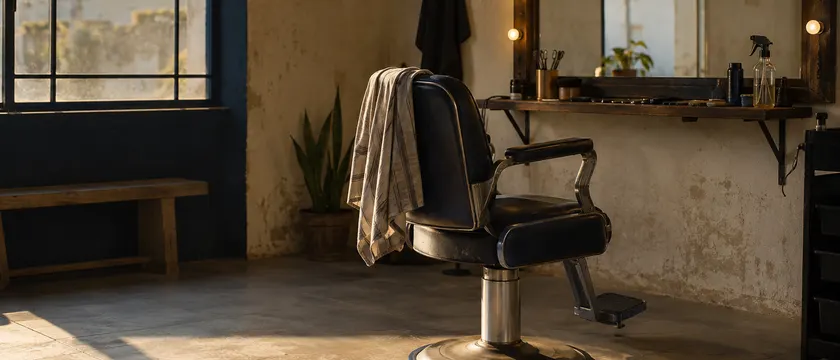
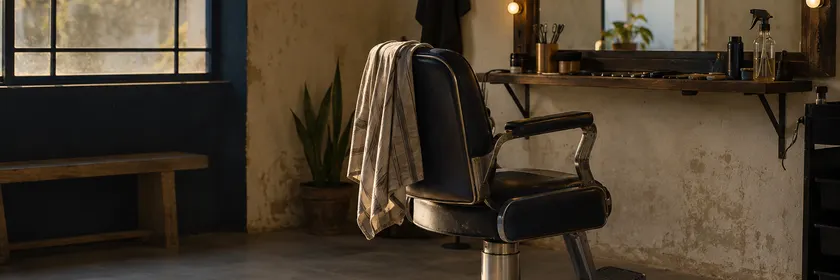
a peca ATRAVESSA a borda em vez de ser cortada por ela
Achado do fundador numa janela de 1850px, e ali a diferenca e' gritante: a peca
era cortada rente a' virada de cor, e corte reto num cartao branco le como
AMPUTACAO, nao como continuacao. O celular da home, que atravessa a borda e
termina dentro da secao clara, le como profundidade — e era o unico gesto ja'
provado nessa largura. Este commit troca um pelo outro.

A CORRECAO E' A COMBINACAO, e cada metade sozinha falha pela que falta:

- ABSOLUTA, a peca nao entra na conta da altura do heroi, entao quem decide
  onde o navy termina e' a coluna de texto. Sem isso o heroi crescia junto com
  ela e abria meia tela de navy vazio ao lado do texto (medido em 1850).
- SEM RECORTE, o que passa disso invade a secao clara de baixo. Sem isso o
  corte reto volta, que e' o defeito original.

As duas versoes anteriores tinham UMA das duas. Ela passa por cima da secao
seguinte porque `.hero-escuro` tem `z-index: 1` e a secao de baixo nao tem —
nao e' acaso de ordem no DOM.

A peca ganhou FIM proprio (rodape), porque agora ela termina onde nao ha corte
para escondê-la. E emagreceu de 974px para 783: tres servicos em vez de quatro,
foto em 840x280 em vez de 840x360, sem a linha "domingo e segunda a gente
descansa", paddings menores. Nao e' arrumacao — cada linha ali custa altura, e a
altura decide se ela colide com o conteudo da secao seguinte.

A SECAO DAS MENSAGENS ganhou respiro grande no PC, para nascer abaixo do pe da
[…]

diff --git a/components/MiniPagina.tsx b/components/MiniPagina.tsx
@@ -31,11 +31,14 @@
    cliente e captura de conversa real não entram no site. Mesmo critério da
    "Camila Nunes" e do "Bruno" da home. */
 
+/* TRÊS serviços, e não quatro: a peça atravessa a borda do herói e precisa
+   terminar ANTES do conteúdo da seção seguinte. Cada linha aqui custa altura
+   real, e a lista existe para mostrar que a página tem preço — não para ser um
+   cardápio. */
 const SERVICOS = [
   { nome: 'Corte', preco: 'R$ 60' },
   { nome: 'Coloração', preco: 'R$ 180' },
   { nome: 'Escova', preco: 'R$ 45' },
-  { nome: 'Hidratação', preco: 'R$ 70' },
 ];
 
 function Zap({ children }: { children: React.ReactNode }) {
@@ -51,7 +54,7 @@ function Zap({ children }: { children: React.ReactNode }) {
 
 function Secao({ rotulo, children }: { rotulo: string; children: React.ReactNode }) {
   return (
-    <div className="px-6 py-7 border-t border-[color:var(--color-line)]">
+    <div className="px-6 py-5 border-t border-[color:var(--color-line)]">
       <div className="font-mono text-[9.5px] uppercase tracking-[.13em] text-muted">{rotulo}</div>
       {children}
     </div>
@@ -64,9 +67,9 @@ export default function MiniPagina() {
        usa leitor de tela, ouvir "Salão Aurora · Corte R$ 60" no meio do herói de
        outra empresa é ruído que promete um negócio que não existe. O que ela
        ilustra está dito em texto no herói e na seção das mensagens. */
-    <div className="peca w-full max-w-[420px] overflow-hidden" aria-hidden="true">
+    <div className="peca w-full max-w-[420px] overflow-hidden border border-[color:var(--color-line)]" aria-hidden="true">
 
-      <div className="flex items-center justify-between gap-3 px-6 py-4">
+      <div className="flex items-center justify-between gap-3 px-6 py-3.5">
         <div className="font-display text-[17px] text-ink leading-none">Salão Aurora</div>
         <div className="font-mono text-[9.5px] uppercase tracking-[.12em] text-muted">sudoeste</div>
       </div>
@@ -84,13 +87,13 @@ export default function MiniPagina() {
         src="/salao-cadeira-840.webp"
         alt=""
         width={840}
-        height={360}
+        height={280}
         className="block w-full h-auto"
       />
 
       {/* O TOPO da página do cliente, e é ele que domina. */}
-      <div className="mini-topo px-6 pt-7 pb-9">
-        <div className="font-display text-[32px] leading-[1.08] text-ink max-w-[11ch]">
+      <div className="mini-topo px-6 pt-5 pb-6">
+        <div className="font-display text-[28px] leading-[1.1] text-ink max-w-[11ch]">
           Cabelo bom, hora marcada.
         </div>
         {/* `div`, e não `<p>`: o texto DENTRO da peça é legenda de figura, e o
@@ -98,8 +101,8 @@ export default function MiniPagina() {
             A home resolve o mesmo caso do mesmo jeito, e por isso as falas do
             celular dela são span, nunca parágrafo. Marcar figura como parágrafo
             é que era o erro, não o tamanho. */}
-        <div className="mt-3 text-[14px] leading-[1.45] text-ink/75 max-w-[26ch]">
-          Corte, coloração e escova no Sudoeste, com hora marcada de verdade.
+        <div className="mt-2.5 text-[14px] leading-[1.45] text-ink/75 max-w-[30ch]">
+          Corte, coloração e escova no Sudoeste.
         </div>
         <Zap>Marcar horário</Zap>
       </div>
@@ -108,11 +111,11 @@ export default function MiniPagina() {
         {/* PREÇO alinhado à direita, com fio entre as linhas: é o que uma página
             de negócio de verdade tem, e é o que dá à peça a tensão de escala que
             faltava — nome em Inter, valor em display. */}
-        <ul className="mt-4">
+        <ul className="mt-3">
           {SERVICOS.map((s) => (
             <li
               key={s.nome}
-              className="flex items-baseline justify-between gap-4 py-2.5 border-b border-[color:var(--color-line)] last:border-b-0"
+              className="flex items-baseline justify-between gap-4 py-2 border-b border-[color:var(--color-line)] last:border-b-0"
             >
               <span className="text-[15px] text-ink">{s.nome}</span>
               <span className="font-display text-[16px] text-ink">{s.preco}</span>
@@ -126,24 +129,18 @@ export default function MiniPagina() {
         <div className="mt-3 font-display text-[19px] leading-[1.25] text-ink">
           Terça a sábado, das 9h às 19h
         </div>
-        <div className="mt-2 text-[14px] leading-[1.45] text-muted">
-          Domingo e segunda a gente descansa.
-        </div>
         <Zap>Ver se tem sábado</Zap>
       </Secao>
 
-      {/* A última seção existe para ser CORTADA: é ela que diz que a página
-          continua abaixo da dobra. Se um dia a peça deixar de sangrar, esta
-          seção precisa ganhar fim — meia seção visível dentro de uma caixa
-          fechada lê como defeito, não como corte. */}
-      <Secao rotulo="onde fica">
-        <div className="mt-3 font-display text-[19px] leading-[1.25] text-ink">
-          Quadra comercial, Sudoeste
-        </div>
-        <div className="mt-2 text-[14px] leading-[1.45] text-muted">
-          Estacionamento na porta, e dá pra ir a pé das quadras vizinhas.
-        </div>
-      </Secao>
+      {/* O RODAPÉ fecha a página. Ele existe porque a peça ATRAVESSA a borda
+          do herói e termina dentro da seção clara — e ali não há corte para
+          escondê-la, então ela precisa acabar por conta própria. Enquanto ela
+          era cortada rente à virada de cor, este bloco era uma seção pela
+          metade, de propósito; corte reto num cartão branco, porém, lê como
+          amputação e não como continuação, que foi o achado do fundador. */}
+      <div className="px-6 py-4 border-t border-[color:var(--color-line)] text-right font-mono text-[9.5px] uppercase tracking-[.12em] text-muted">
+        instagram · como chegar
+      </div>
     </div>
   );
 }

diff --git a/app/landing-page/page.tsx b/app/landing-page/page.tsx
@@ -112,16 +112,21 @@ export default function LandingPage() {
       <main>
         {/* HERÓI. Mesma família da home — navy, textura, a luz que deriva —
             porque é a mesma casa; o que muda é o objeto no centro. */}
-        {/* `overflow-hidden` é o que RECORTA a peça na borda de baixo, e é o
-            herói inteiro que faz o corte — não uma caixa em volta dela. Sem
-            isso a peça esticaria a seção e voltaria a caber dentro dela, que
-            era exatamente o defeito. A luz do herói já mora em caixa recortada
-            própria, então ela não é afetada. */}
-        <section className="hero-escuro textura relative overflow-hidden pt-6 pb-0 min-[900px]:pt-16 min-[900px]:pb-24">
+        {/* NO PC o herói NÃO recorta: a peça desce e invade a seção de baixo,
+            que é o gesto do celular da home — o único que já se provou numa
+            tela larga. A versão anterior recortava a peça rente à virada de
+            cor, e corte reto num cartão branco lê como amputação; objeto
+            atravessando o limite lê como profundidade. Achado do fundador, numa
+            janela de 1850px, onde a diferença é gritante.
+
+            NO CELULAR o recorte fica, e ali ele funciona: sem coluna ao lado, a
+            seção cresceria até caber na peça inteira e não haveria travessia
+            nenhuma para ver. Por isso `overflow-hidden` só abaixo de 900. */}
+        <section className="hero-escuro textura relative overflow-hidden min-[900px]:overflow-visible pt-6 pb-0 min-[900px]:pt-16 min-[900px]:pb-0">
           <div className="luz-hero" aria-hidden="true" />
           <div className="wrap relative grid gap-12 min-[900px]:grid-cols-[1.12fr_.88fr] min-[900px]:gap-14 items-start">
 
-            <div className="text-center min-[900px]:text-left min-[900px]:pt-6">
+            <div className="text-center min-[900px]:text-left min-[900px]:pt-6 min-[900px]:pb-28">
               {/* Sem rótulo acima do H1: é o hero padrão de SaaS de IA, e a
                   `design-site` o proíbe sem exceção. */}
               {/* A ESCALA É A DA HOME: 72px, o mesmo `clamp` do h1 de lá.
@@ -160,20 +165,30 @@ export default function LandingPage() {
               </div>
             </div>
 
-            {/* NO PC a peça é ABSOLUTA: assim ela não entra na conta da altura
-                da seção, e é a coluna da esquerda que decide onde o herói
-                termina. É isso que garante o corte — com a peça no fluxo, a
-                seção crescia até caber nela e o sangramento não acontecia.
+            {/* A peça é ABSOLUTA e TRANSBORDA — as duas coisas juntas, e é a
+                combinação que resolve. Absoluta, ela não entra na conta da
+                altura do herói, então quem decide onde o navy termina é a
+                coluna de texto e não sobra vão morto à esquerda; sem recorte,
+                o que passa disso invade a seção clara de baixo, que é o gesto
+                do celular da home.
 
-                No CELULAR ela volta ao fluxo e é recortada por altura máxima,
-                porque ali não há coluna ao lado para dar altura à seção. O
-                gesto é o mesmo nas duas larguras: a página continua abaixo. */}
+                As duas tentativas anteriores tinham UMA das duas e falhavam
+                pela que faltava: absoluta COM recorte dava corte reto de
+                cartão branco, que lê como amputação; no fluxo SEM recorte
+                fazia o herói crescer junto com a peça e abria meia tela de
+                navy vazio ao lado do texto.
+
+                A peça passa por cima da seção seguinte porque `.hero-escuro`
+                tem `z-index: 1` e a seção de baixo não tem — não é acaso de
+                ordem no DOM. */}
             <div className="relative z-10 min-[900px]:static">
-              {/* O CORTE do celular termina RENTE à borda de baixo do herói —
-                  daí o `pb-0` na seção. Com respiro embaixo, o mesmo recorte lia
-                  como "o cartão acabou aqui"; encostado na virada de cor, lê
-                  como a página seguindo por baixo da dobra, que é o que ele quer
-                  dizer e o que o PC já dizia. */}
+              {/* CELULAR: recorte rente à borda de baixo do herói (daí o `pb-0`
+                  na seção). Com respiro embaixo, o mesmo recorte lia como "o
+                  cartão acabou aqui"; encostado na virada de cor, lê como a
+                  página seguindo por baixo da dobra.
+
+                  PC: sem recorte, e `translate-y` faz a peça descer para dentro
+                  da seção clara. */}
               <div className="flex justify-center max-h-[400px] overflow-hidden min-[900px]:max-h-none min-[900px]:overflow-visible min-[900px]:absolute min-[900px]:top-8 min-[900px]:right-0 min-[900px]:w-[420px] min-[900px]:justify-end">
                 <MiniPagina />
               </div>

diff --git a/components/AsMensagens.tsx b/components/AsMensagens.tsx
@@ -28,9 +28,18 @@ const MENSAGENS = [
   { de: 'de horários', texto: 'Oi! Vim pelo site. Vocês têm horário no sábado?' },
 ];
 
+/* O RESPIRO DE CIMA no PC não é gosto: a peça do herói ATRAVESSA a borda de baixo dele e
+   desce para dentro desta seção, e o conteúdo daqui tem de começar
+   abaixo dela. É o mesmo arranjo do "Como funciona" da home, que abre espaço
+   para o celular descer.
+
+   O valor é MEDIDO, e o comando que o rederiva está no README do repositório,
+   na seção da `/landing-page/`: ele imprime a folga entre o pé da peça e o
+   começo do conteúdo desta seção. Folga negativa quer dizer que a peça cresceu
+   e este respiro precisa crescer junto. */
 export default function AsMensagens() {
   return (
-    <section id="mensagens" className="bg-paper-2 textura textura-clara py-24 min-[900px]:py-28">
+    <section id="mensagens" className="bg-paper-2 textura textura-clara py-24 min-[900px]:pt-[20rem] min-[900px]:pb-28">
       <div className="wrap grid gap-12 min-[900px]:grid-cols-[.95fr_1.05fr] min-[900px]:gap-16 items-start">
 
         <div>

diff --git a/app/globals.css b/app/globals.css
@@ -1049,7 +1049,7 @@
      Inter — inclusive controle desenhado. */
   .mini-zap {
     display: inline-flex; align-items: center; gap: 6px;
-    margin-top: 16px; padding: 8px 13px;
+    margin-top: 14px; padding: 8px 13px;
     border-radius: 999px;
     background: var(--color-signal); color: #fff;
     font-size: 12px; font-weight: 500; line-height: 1;

diff --git a/README.md b/README.md
@@ -177,6 +177,40 @@ versão anterior desenhava um código copia-e-cola plausível, e invenção com 
 de chave é pior que invenção nenhuma, porque quem lê não tem como saber que é
 falsa.
 
+## `/landing-page/` — a página que vende landing page
+
+Ela precisa SER a amostra do serviço que vende: se não for a melhor página do
+site, desmente a própria oferta. Herda inteiro o vocabulário da home (`.peca`,
+`.textura`, as luzes, `.cartao-plano`, `.combo-luz`, `.fala-peca`,
+`.plan-item`); as duas classes próprias são `.mini-topo` e `.mini-zap`.
+
+**A peça do herói ATRAVESSA a borda de baixo do herói** e termina dentro da
+seção das mensagens — é o gesto do celular da home, e ele existe porque a
+alternativa falha: recortar a peça rente à virada de cor dá um corte reto num
+cartão branco, que lê como amputação e não como continuação.
+
+Para isso ela é **absoluta E transborda**, as duas coisas juntas. Absoluta, não
+entra na conta da altura do herói, então quem decide onde o navy termina é a
+coluna de texto e não sobra vão morto ao lado; sem recorte, o que passa disso
+invade a seção clara. Ter só uma das duas falha pela que falta — foi medido nas
+duas direções. Ela passa por cima da seção seguinte porque `.hero-escuro` tem
+`z-index: 1` e a seção de baixo não tem.
+
+**A seção das mensagens começa com um respiro grande no PC**, para o conteúdo
+dela nascer abaixo do pé da peça. O valor é medido, e este comando o rederiva —
+`folga` negativa quer dizer que a peça cresceu e o respiro precisa crescer
+junto (rode `npm run servir` antes):
+
+```
+node -e "const{chromium}=require('playwright');(async()=>{const b=await chromium.launch();for(const w of [1850,1280,1024,900]){const p=await b.newPage({viewport:{width:w,height:1000}});await p.goto('http://127.0.0.1:8111/landing-page/?v='+Date.now(),{waitUntil:'networkidle'});await p.waitForTimeout(2200);console.log(w,await p.evaluate(()=>{const q=document.querySelector('.peca').getBoundingClientRect(),i=document.querySelector('#mensagens img').getBoundingClientRect();return{folga:Math.round(i.top-q.bottom)}}));await p.close()}await b.close()})()"
+```
+
+**As duas fotos** (`public/salao-cadeira-840.webp` e
+`public/mensagem-que-chega-900.webp`) foram geradas pelo fundador a partir de
+`~/para-revisao/prompts-imagens-landing-page.md`. A do salão mora na faixa do
+topo da peça, com o título POR BAIXO e nunca por cima: texto sobre foto exigiria
+véu escuro para passar nos 4,5:1, e o véu mudaria o clima da peça inteira.
+
 ## Operação
 
 - `npm run build` gera o export em `out/` e roda o portão das 11 conferências.
@@ -185,12 +219,16 @@ falsa.
   `?v=alguma-coisa` na URL, senão você mede a página anterior.
 - `npm run medir` mede qualquer página nos três tamanhos; `npm run tells` conta
   os tells; `npm run og` regenera a prévia do link a partir dos próprios tokens.
-- **O formato do deploy está em aberto.** Hoje o diretório servido é um clone
-  deste repositório e o Nginx nega dotfiles, `README.md`, `docs/`, `build/`,
-  `nginx/` e `package*.json` — negações que estão no conf versionado. Com a home
-  virando export, a proposta registrada é o diretório servido passar a ser
-  artefato puro (só o conteúdo de `out/`), o que torna as negações
-  desnecessárias. Dois requisitos travam qualquer forma: a URL
+- **O DEPLOY MUDOU em 08/09/2026, e a forma antiga é armadilha.** O diretório
+  servido (`/var/www/riachotech`) deixou de ser um clone deste repositório e
+  passou a conter **só o conteúdo de `out/`**. Deploy é `npm run build` e depois
+  `rsync -a --delete --exclude='.git' out/ /var/www/riachotech/`.
+  **`git pull` no diretório servido NÃO é deploy — é pior que quebrar:** ele
+  devolve a página ANTIGA, sem erro nenhum, porque o `.git` de lá segue parado
+  no commit anterior de propósito, e é ele que dá o rollback
+  (`git checkout . && git clean -fd`). O estado se rederiva com
+  `git -C /var/www/riachotech status --porcelain | grep index.html`, que tem de
+  devolver `M`. Dois requisitos travam qualquer forma futura: a URL
   `privacidade.html` **com** `.html` não muda, e a âncora
   `#uso-limitado-google` não some.
 - `conectar/` é a página do Embedded Signup (o fluxo oficial da Meta para o
